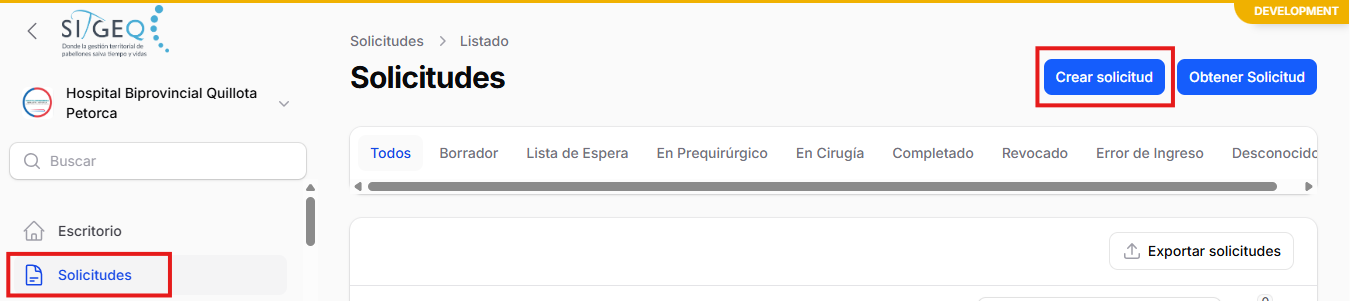
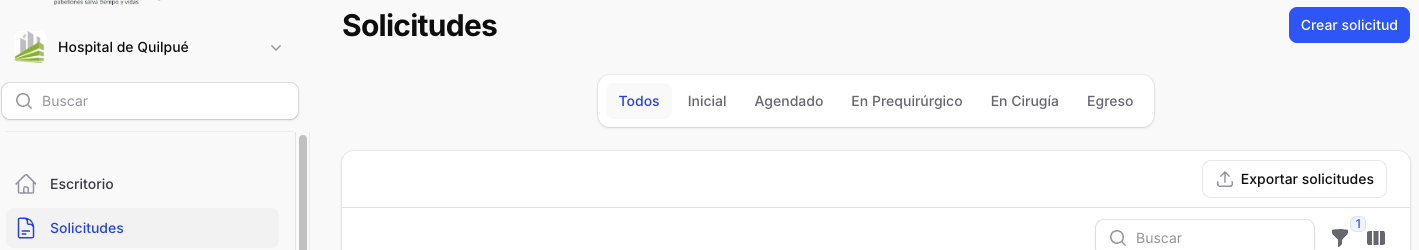
agenda prequirurgica y encuentro prequirurgico

diff --git a/docs/01-menu-principal/04-encuentro-prequirurgico.md b/docs/01-menu-principal/04-encuentro-prequirurgico.md
@@ -7,60 +7,50 @@ navigation:
 # Encuentro Prequirúrgico
 
 ## Descripción General
-El Encuentro Prequirúrgico es el módulo donde se registra toda la información recopilada durante la evaluación prequirúrgica del paciente.
-En ella también se incorporan formularios para el registro clínico, además de la gestión que conlleva los procesos siguientes.
+El Encuentro Prequirúrgico permite revisar y actualizar la solicitud quirúrgica, completar los datos del encuentro y acceder a los formularios asociados a la evaluación del paciente antes de la cirugía.
 
 ## Visualización previa de encuentros
 
-Para visualizar a los pacientes que se encuentran disponibilizados a su proximo encuentro prequirúrgico, es necesario que en el proceso anterior (Agenda Prequirúrgica) se haya cambiado el estado del agendamiento en "Agendado", si no se ha realizado este cambio, al iniciar la apertura del menú "Encuentro Prequirúrgico" no habrá ningun paciente disponible.
-Plataforma posee la opción de visualizar los pacientes asignados al usuario de logueo como también los que se encuentran asignados a otros profesionales. Esta diferencia se logra al ingresar al botón Mías o Todas, para comenzar con el encuentro prequirúrgico se necesita ingresar a enlace "Iniciar encuentro". Se adjunta imagen con la información representada.
+Para que un paciente esté disponible en el módulo, el agendamiento correspondiente debe encontrarse en estado **Agendado** en la Agenda Prequirúrgica. Desde el listado es posible revisar los encuentros asignados al usuario (**Mías**) o consultar todos (**Todas**). Para comenzar, se debe seleccionar **Iniciar encuentro**.
 
-![Ejemplo imagen](../../assets/images/Encuentro_preqx.png)
+## Solicitud quirúrgica
+
+En la sección **Editar** se revisan los antecedentes de la solicitud y se pueden actualizar sus datos. El resumen lateral identifica la solicitud mediante su número y muestra información del paciente, el box y la fecha del encuentro.
 
 ## Secciones del Encuentro
 
-### Datos del Paciente
-- Información demográfica
+### Datos generales
 
-Visualización de datos demográficos del paciente provenientes de la solicitud emitida
+La solicitud reúne la fecha, el paciente y el prestador solicitante. También permite indicar el origen de la solicitud —ambulatorio, urgencia, hospitalizado o traslado coordinado—, asignar etiquetas y seleccionar el tipo de pabellón. Para solicitudes de pacientes hospitalizados, la pantalla indica que se debe seleccionar una sola opción de tipo de pabellón.
 
-![Ejemplo imagen](../../assets/images/Encuentro_preqx.png)
+### Diagnósticos y prestaciones
 
-- Antecedentes médicos
-- Alergias y medicamentos actuales
-- Historia quirúrgica previa
+Se pueden agregar diagnósticos y prestaciones a la solicitud. El primer diagnóstico corresponde al principal, y la primera prestación corresponde a la cirugía principal. Según la prestación, se registran datos como sitio de operación, plano, extremidad, GES y frecuencia. La sección también incluye la descripción de la cirugía propuesta.
 
-### Evaluación Médica
-- Examen físico
-- Signos vitales
-- Evaluación de riesgo quirúrgico
-- Clasificación ASA
+![Ejemplo imagen](../../assets/images/encuentropreqx_datosgenerales.png)
 
-### Exámenes Complementarios
-- Laboratorio (hemograma, perfil bioquímico, etc.)
-- Electrocardiograma
-- Radiografías
-- Otros estudios según protocolo
+### Planificación y estado de la solicitud
 
-### Evaluación Anestésica
-- Tipo de anestesia recomendada
-- Evaluación de vía aérea
-- Riesgos anestésicos
-- Consentimiento informado
+Entre los datos de planificación se encuentran el método anestésico, la prioridad y su fundamento, el requerimiento de comité, el tiempo quirúrgico estimado, el servicio clínico y la asignación de camas, camillas, cunas o bergere. El formulario permite agregar observaciones y definir el estado de la solicitud (**Agendado**, **Egreso** o **Inicial**), además de indicar si está lista para prequirúrgico.
 
-### Preparación Quirúrgica
-- Indicaciones preoperatorias
-- Ayuno
-- Medicación prequirúrgica
-- Recomendaciones especiales
+![Ejemplo imagen](../../assets/images/encuentropreqx_planificacion.png)
 
-## Finalizar Encuentro
-Una vez completada toda la información, el encuentro debe ser:
-- Revisado por el profesional responsable
-- Firmado digitalmente
-- Guardado en el expediente del paciente
+## Formularios asociados
 
-## Impresión y Documentación
-- Generar resumen de evaluación prequirúrgica
-- Imprimir consentimientos informados
-- Adjuntar resultados de exámenes
+Desde el panel lateral se accede a los formularios vinculados a la solicitud, entre ellos **Ingreso Prequirúrgico**, **Evaluación Preanestésica**, **Consentimiento Informado**, **Pauta Evaluación ETE**, **Pauta ETE Cesárea** y **Preparación Preoperatoria**. La disponibilidad de cada formulario se muestra en la sección **Formularios asociados**.
+
+## Detalles del encuentro prequirúrgico
+
+En esta sección se registran los participantes y los datos del encuentro:
+
+- **Fecha de inicio** y **fecha de fin**.
+- **Modalidad de atención** y **tipo específico**.
+- **Estado prequirúrgico**: listo para cirugía, en preparación, no apto, en espera administrativa o caso suspendido.
+- **En condición de cirugía** y **resultado evaluación prequirúrgica**.
+- **Estado del encuentro**: planeado, llegado, triado, en progreso, en pausa, finalizado, cancelado, ingresado por error o desconocido.
+
+Al terminar la edición, se selecciona **Guardar cambios** para conservar la información o **Cancelar** para salir sin guardar.
+
+## Accesos complementarios
+
+En la parte superior se encuentran accesos a **Medidas Antropométricas** y **Alergias**, para consultar información relevante del paciente durante la revisión de la solicitud y del encuentro.

diff --git a/docs/01-menu-principal/03-agenda-prequirurgica.md b/docs/01-menu-principal/03-agenda-prequirurgica.md
@@ -39,6 +39,11 @@ Una vez creadas las solicitudes de entrevista, quedarán de la siguiente manera:
 
 ![Ejemplo imagen](../../assets/images/Agenda_entrevista.png)
 
+Ademas de un listado
+
+![Ejemplo imagen](../../assets/images/Listado_Agenda_entrevista.png)
+
+
 ### Editar Agenda
 
 Las entrevistas que se encuentran programadas, pueden sufrir modificaciones segun la evolución del paciente, por lo que es importante la existencia de poder cambiar o reprogramar entrevistas, actualizar la información del paciente o inclusive modificar al profesional asignado. Para proceder con estos cambios, se selecciona al paciente en la agenda, al presionar clic en su agendamiento, se aperturará la ventana para proceder con los cambios que se estimen.
